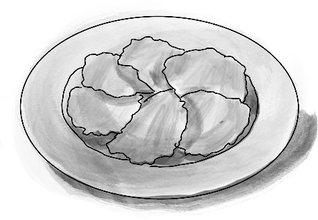
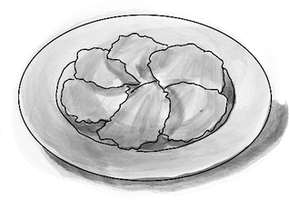
🐛  fixed some pages ending with images

diff --git a/docs/index.html b/docs/index.html
@@ -199,7 +199,7 @@
             accidentally jamming into the door.</p>
 
           <figure>
-            <img src="./images/wrist-watch.png" width="296" height="240" alt="Alarm clock as a wrist watch" />
+            <img src="./images/wrist-watch.png" width="247" height="200" alt="Alarm clock as a wrist watch" />
             <figcaption>The Wrist Watch I gave my brother</figcaption>
           </figure>
         </section>
@@ -318,7 +318,7 @@
               href="https://en.wikipedia.org/wiki/HaZore%27a" target="_blank" rel="noreferrer noopener">Kibbutz
               HaZorea</a> and asked her about the incident but she didn’t remember anymore.</p>
           <figure>
-            <img src="./images/latkes.png" width="318" height="220" alt="Latkes" />
+            <img src="./images/latkes.png" width="289" height="200" alt="Latkes" />
             <figcaption>Latkes</figcaption>
           </figure>
         </section>
